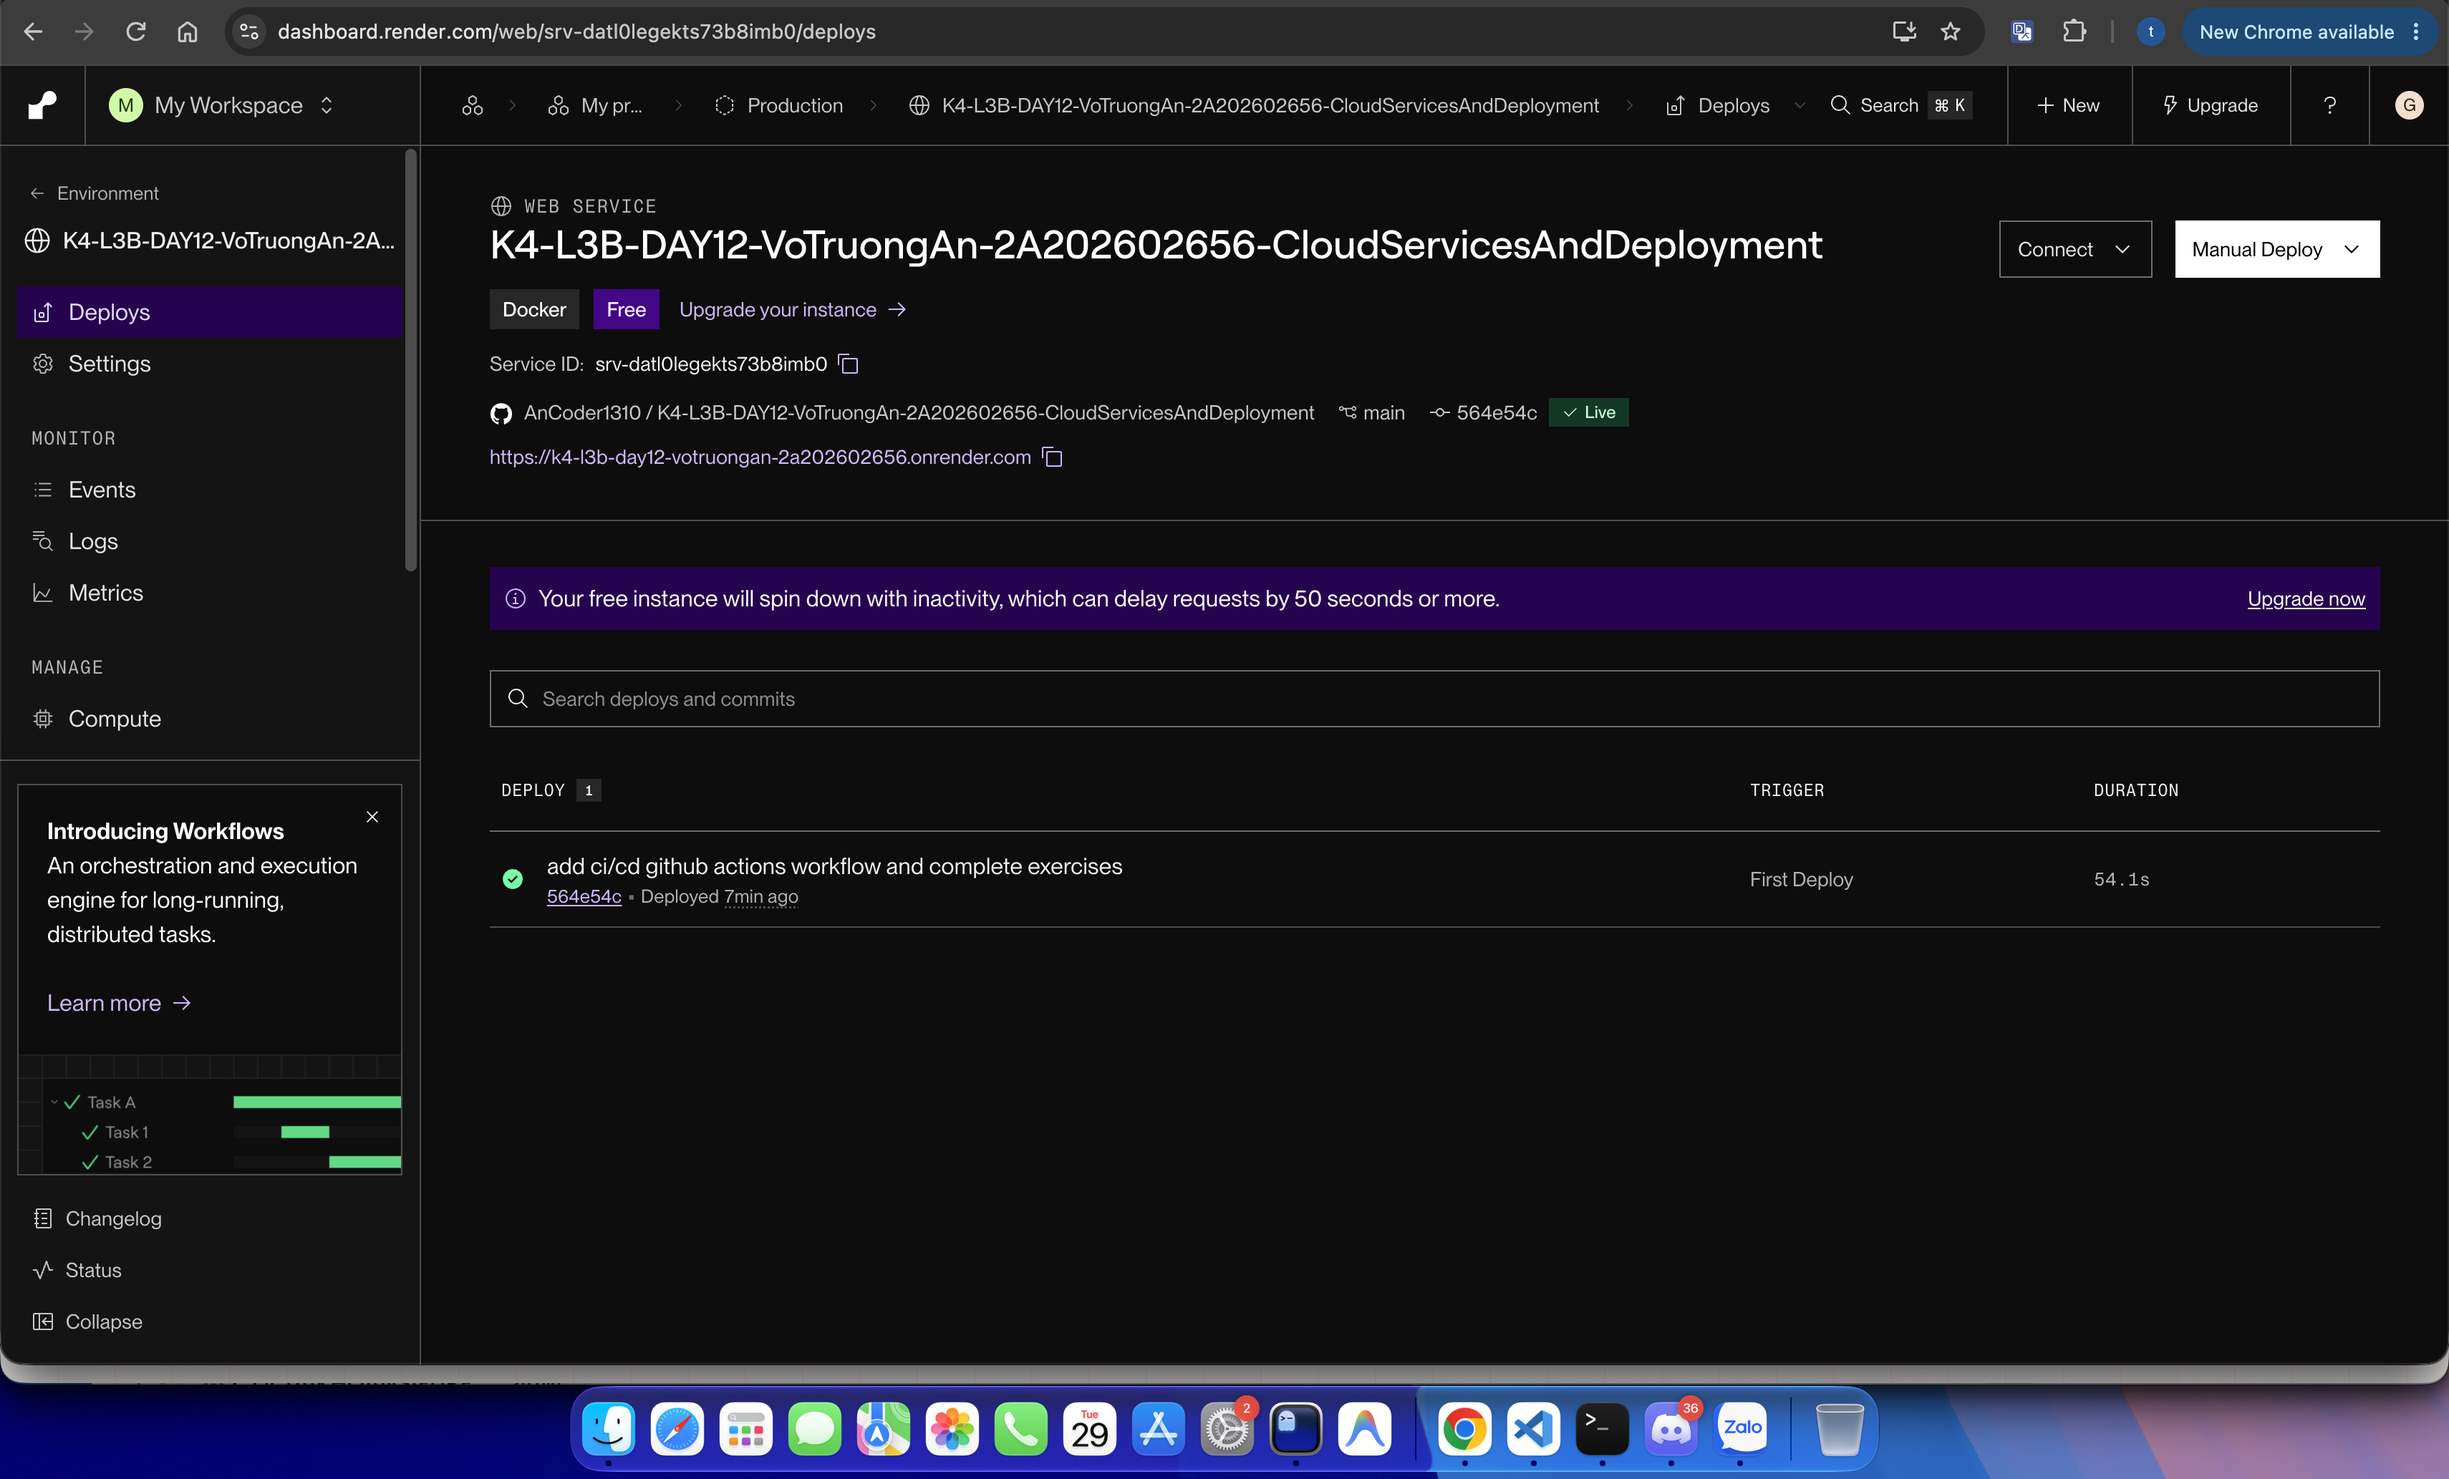
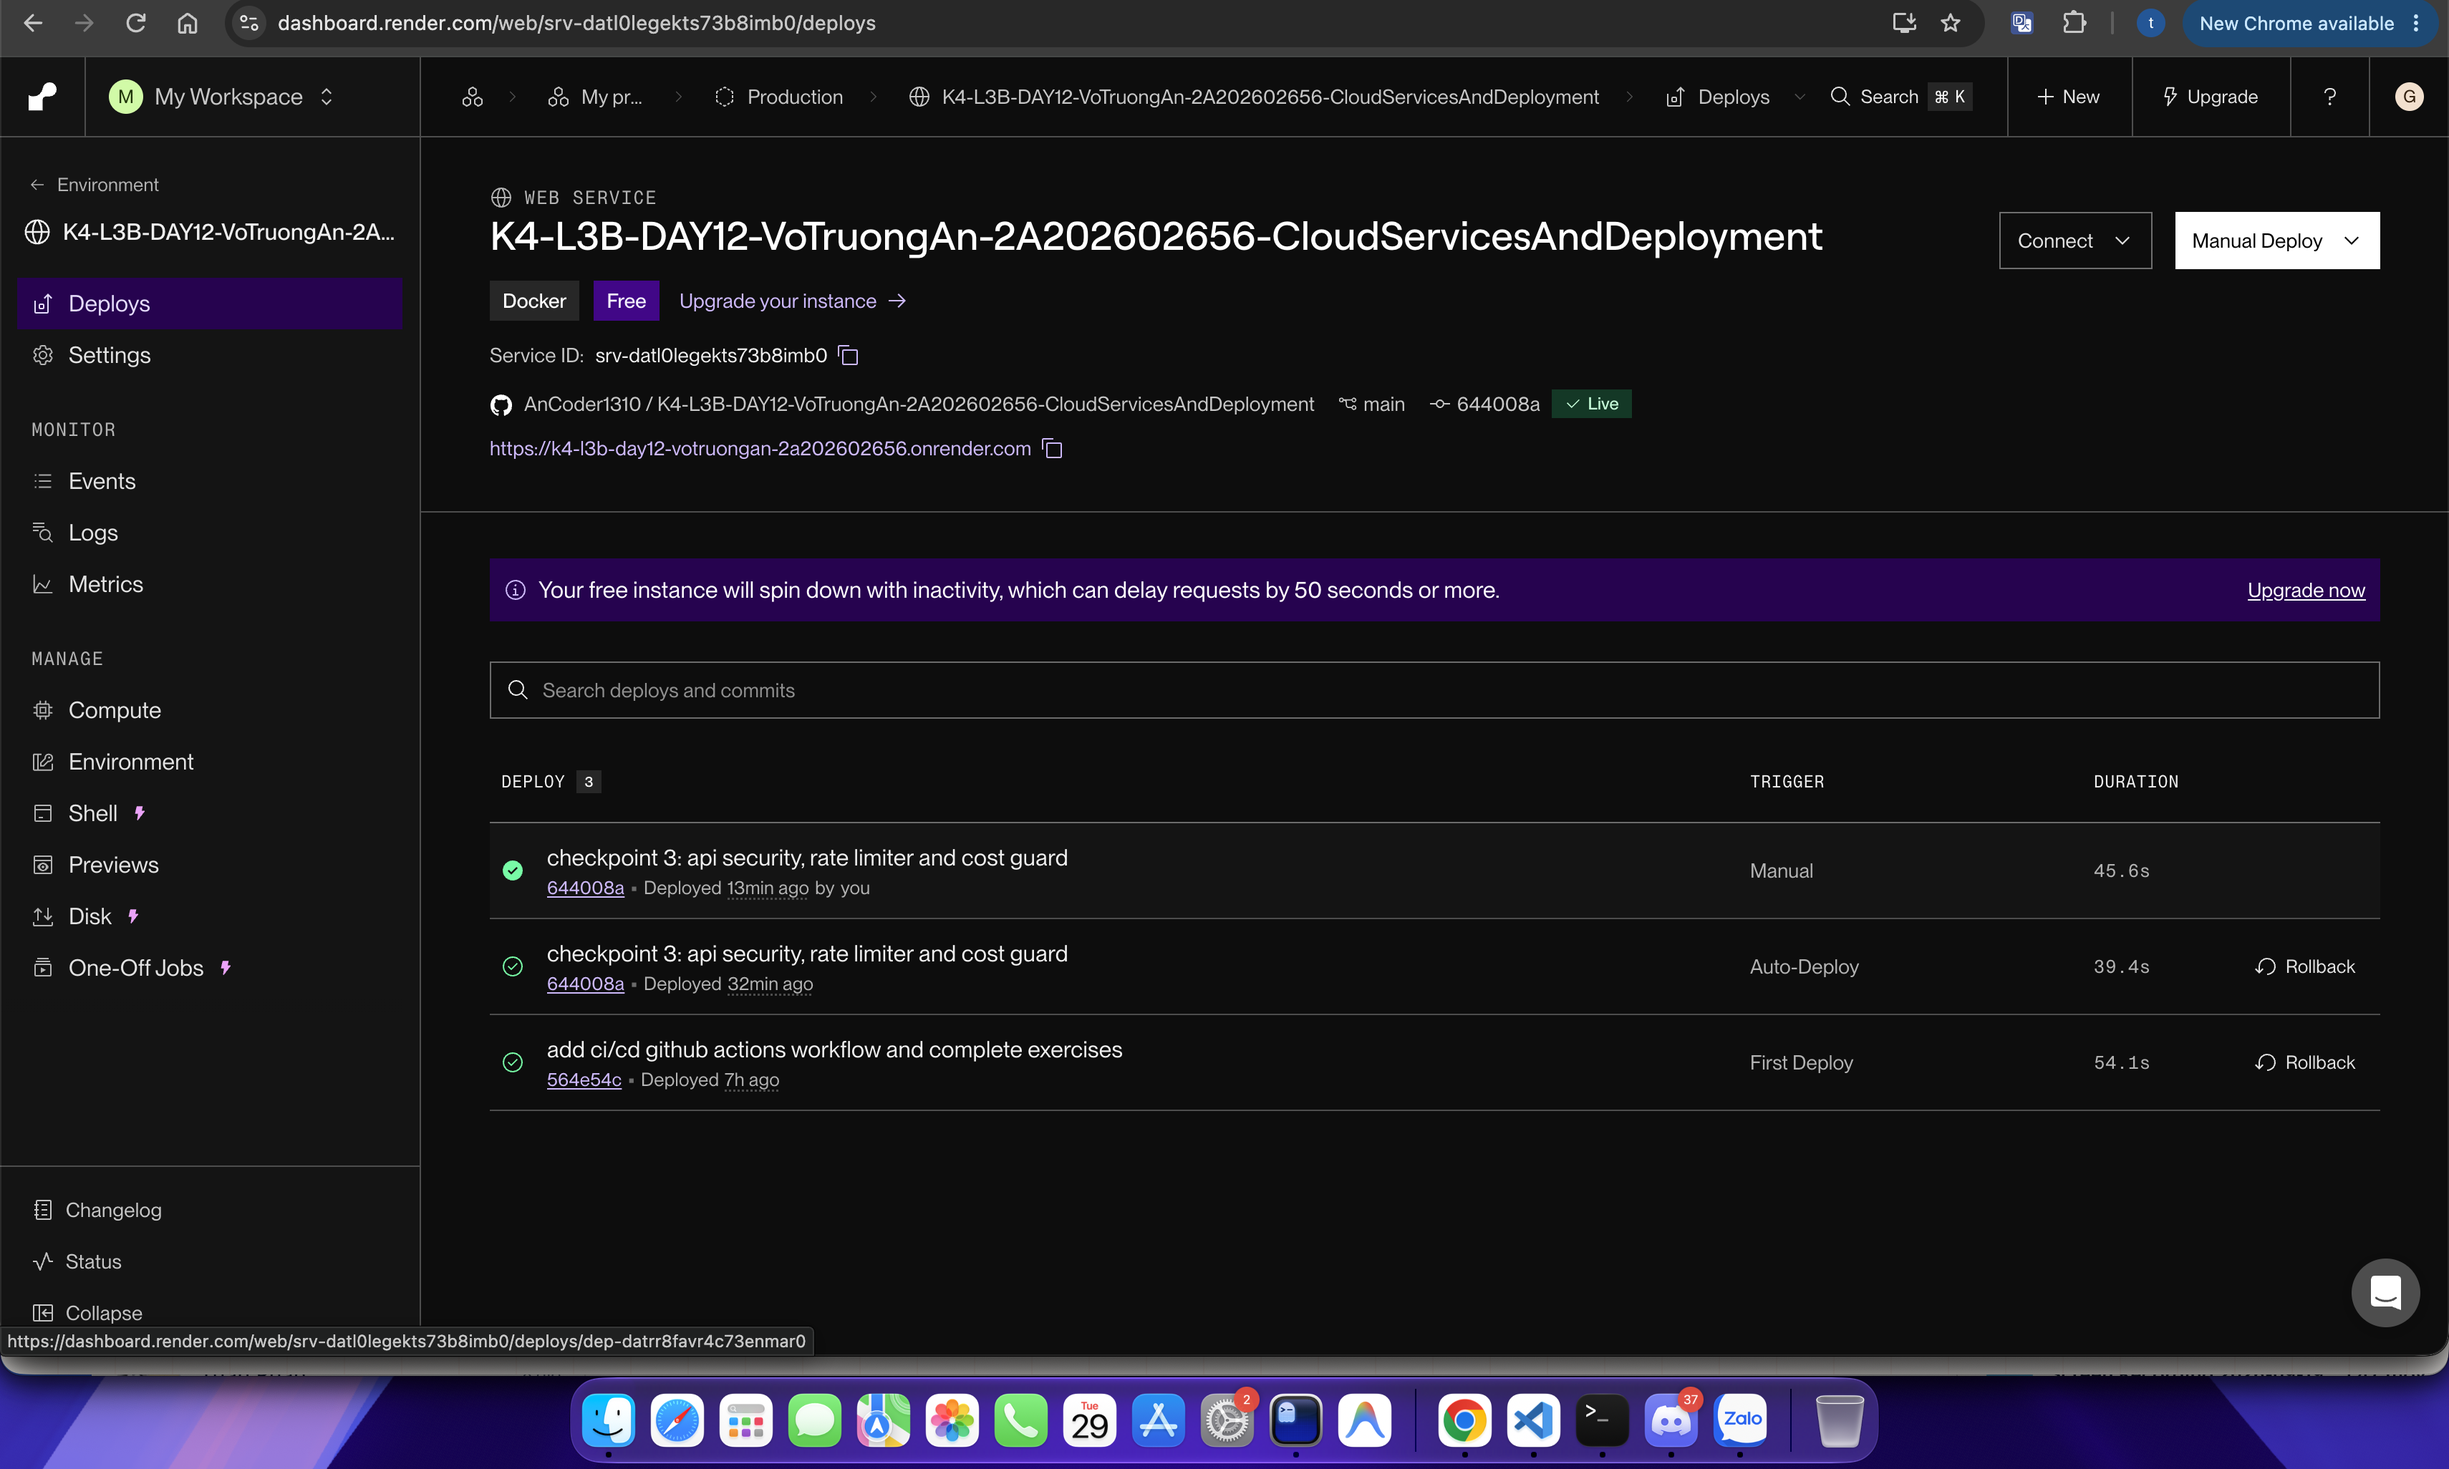
checkpoint 5: complete cloud deployment documentation and screenshots

diff --git a/DEPLOYMENT.md b/DEPLOYMENT.md
@@ -30,29 +30,29 @@ Ghi tên biến và **nguồn giá trị**, không ghi giá trị:
 |------|--------|---------|
 | `PORT` | ✅ | platform tự gán |
 | `AGENT_API_KEY` | ✅ | đặt trong dashboard, không nằm trong repo |
-| `REDIS_URL` | ✅ | (điền: Redis add-on của platform / Upstash / ...) |
+| `REDIS_URL` | ✅ | Render Key Value (day12-redis) |
 | `RATE_LIMIT_PER_MINUTE` | ✅ | 10 |
 | `MONTHLY_BUDGET_USD` | ✅ | 10.0 |
 | `LOG_LEVEL` | ✅ | INFO |
 
 ## Lệnh Kiểm Tra
 
-Thay `<URL>` bằng Public URL ở trên:
+Thay `https://k4-l3b-day12-votruongan-2a202602656.onrender.com` bằng Public URL ở trên:
 
 ```bash
 # 1. Liveness — mong đợi 200 {"status":"ok"}
-curl -i <URL>/health
+curl -i https://k4-l3b-day12-votruongan-2a202602656.onrender.com/health
 
 # 2. Readiness — mong đợi 200 {"status":"ready"} (đã nối được Redis)
-curl -i <URL>/ready
+curl -i https://k4-l3b-day12-votruongan-2a202602656.onrender.com/ready
 
 # 3. Không có API key — mong đợi 401
-curl -i -X POST <URL>/ask \
+curl -i -X POST https://k4-l3b-day12-votruongan-2a202602656.onrender.com/ask \
   -H "Content-Type: application/json" \
   -d '{"question":"Hello"}'
 
 # 4. Có API key — mong đợi 200 kèm câu trả lời
-curl -i -X POST <URL>/ask \
+curl -i -X POST https://k4-l3b-day12-votruongan-2a202602656.onrender.com/ask \
   -H "Content-Type: application/json" \
   -H "X-API-Key: $AGENT_API_KEY" \
   -H "X-User-Id: sv-test" \
@@ -60,7 +60,7 @@ curl -i -X POST <URL>/ask \
 
 # 5. Rate limit — gọi 15 lần, những lần cuối phải trả 429
 for i in $(seq 1 15); do
-  curl -s -o /dev/null -w "%{http_code} " -X POST <URL>/ask \
+  curl -s -o /dev/null -w "%{http_code} " -X POST https://k4-l3b-day12-votruongan-2a202602656.onrender.com/ask \
     -H "Content-Type: application/json" \
     -H "X-API-Key: $AGENT_API_KEY" \
     -H "X-User-Id: sv-test" \
@@ -73,7 +73,95 @@ done; echo
 Dán output của các lệnh trên vào đây:
 
 ```
-(điền output)
+
+1 
+
+❯  curl -i https://k4-l3b-day12-votruongan-2a202602656.onrender.com/health
+HTTP/2 200 
+date: Tue, 29 Sep 2026 13:16:01 GMT
+content-type: application/json
+cf-cache-status: DYNAMIC
+rndr-id: ef20bab2-28ba-404b
+server: cloudflare
+vary: Accept-Encoding
+x-render-origin-server: uvicorn
+cf-ray: a42b428e8b41dda0-HKG
+alt-svc: h3=":443"; ma=86400
+
+{"status":"ok","service":"day12-agent","version":"1.0.0"}%   
+
+
+2
+
+❯  curl -i https://k4-l3b-day12-votruongan-2a202602656.onrender.com/ready
+HTTP/2 200 
+date: Tue, 29 Sep 2026 13:32:55 GMT
+content-type: application/json
+cf-cache-status: DYNAMIC
+rndr-id: ad6ae5c6-087e-4780
+server: cloudflare
+vary: Accept-Encoding
+x-render-origin-server: uvicorn
+cf-ray: a42b5b4bc8950651-HKG
+alt-svc: h3=":443"; ma=86400
+
+{"status":"ready","redis":true}%                             
+
+
+3
+
+❯  curl -i -X POST https://k4-l3b-day12-votruongan-2a202602656.onrender.com/ask \
+  -H "Content-Type: application/json" \
+  -d '{"question":"Hello"}'
+HTTP/2 401 
+date: Tue, 29 Sep 2026 13:37:28 GMT
+content-type: application/json
+cf-cache-status: DYNAMIC
+rndr-id: 37007094-1346-404b
+server: cloudflare
+vary: Accept-Encoding
+x-render-origin-server: uvicorn
+cf-ray: a42b61f67bed04ef-HKG
+alt-svc: h3=":443"; ma=86400
+
+{"detail":"invalid or missing API key"}%  
+
+
+4
+
+❯  curl -i -X POST https://k4-l3b-day12-votruongan-2a202602656.onrender.com/ask \
+  -H "Content-Type: application/json" \
+  -H "X-API-Key: $AGENT_API_KEY" \
+  -H "X-User-Id: sv-test" \
+  -d '{"question":"Deploy là gì?"}'
+HTTP/2 200 
+date: Tue, 29 Sep 2026 13:40:41 GMT
+content-type: application/json
+cf-cache-status: DYNAMIC
+rndr-id: a13c7543-ec5d-46c2
+server: cloudflare
+vary: Accept-Encoding
+x-render-origin-server: uvicorn
+cf-ray: a42b66ac28fccabc-HKG
+alt-svc: h3=":443"; ma=86400
+
+{"answer":"Câu hỏi hay. Deploy là gì thường được giải quyết bằng cách chuẩn hóa môi trường chạy: cùng một image chạy giống nhau ở laptop và trên cloud. (Mình đang nhớ 20 lượt trao đổi trước đó.)","user_id":"sv-test","history_length":20,"cost_usd":9.345e-05,"tokens":{"in":443,"out":45}}% 
+
+
+5
+
+❯  URL="https://k4-l3b-day12-votruongan-2a202602656.onrender.com"
+
+for i in $(seq 1 15); do
+  curl -s -o /dev/null -w "%{http_code} " \
+    -X POST "$URL/ask" \
+    -H "Content-Type: application/json" \
+    -H "X-API-Key: $AGENT_API_KEY" \
+    -H "X-User-Id: sv-test" \
+    -d '{"question":"test"}'
+done
+echo
+200 200 200 200 200 200 200 200 200 200 429 429 429 429 429 
 ```
 
 ## Ảnh Chụp Màn Hình
@@ -84,18 +172,3 @@ Dán output của các lệnh trên vào đây:
 - `screenshots/health.png` — kết quả gọi `/health` từ trình duyệt hoặc curl
 
 ---
-
-## Nếu Dùng Phương Án Dự Phòng
-
-Không đăng ký được tài khoản cloud? Vẫn nộp được bài, nhưng CP5 tối đa 60% điểm:
-
-1. Đặt `LOCAL_FALLBACK=true` trong `.env`
-2. Chạy `docker compose up -d` rồi kiểm tra `docker compose ps`
-3. Chụp màn hình vào `screenshots/`
-4. Chạy `pytest tests/test_cp5.py -v` — bộ test sẽ tự chuyển sang kiểm tra
-   `http://localhost:8000`
-5. Ghi rõ lý do không deploy được vào phần dưới đây:
-
-```
-(điền lý do nếu dùng phương án dự phòng, ngược lại xóa mục này)
-```
